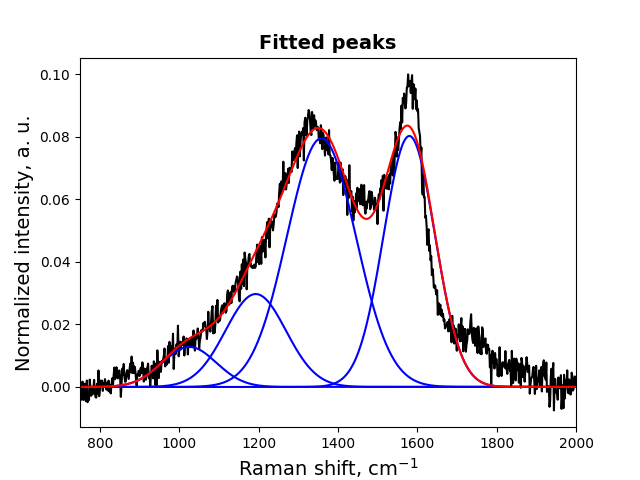
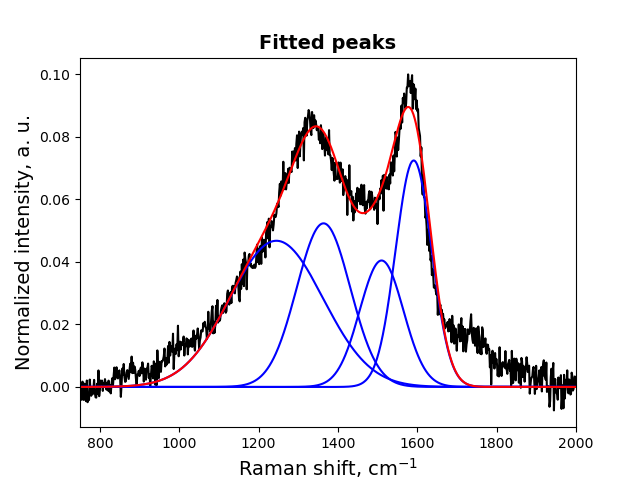
Dois picos fixados.

diff --git a/source/code_raman_all_files.py b/source/code_raman_all_files.py
@@ -91,18 +91,18 @@ for ind_arq in range(len(arqs)):
 
         params = lmfit.Parameters()
         #               (Name,  Value,  Vary,   Min,  Max,  Expr)
-        params.add_many(('a1',   1,   True,  0,      None,  None),
-                        ('f1',   1350,   True, 1340,    1360,  None),
-                        ('l1',   80,   True,  0,      None,  None),
-                        ('a2',   1,   True,  0,      None,  None),
-                        ('f2',   1600,  True, 1580,   1620,  None),
-                        ('l2',   80,   True,  0,   None,  None),  
-                        ('a3',   1,    True,    0,      None,  None),
-                        ('f3',   1000,  True, 700,   1500,  None),
-                        ('l3',   80,   True,  0,   None,  None),
-                        ('a4',   8.5,    True,    0,      None,  None),
-                        ('f4',   1100,  True, 1000,   2000,  None),
-                        ('l4',   80,   True,  0,   None,  None))
+        params.add_many(('a1',   2.4,   True,  0,      None,  None),
+                ('f1',   1245,   True, 1100,    1300,  None),
+                ('l1',   26,   True,  0,      None,  None),
+                ('a2',   3.5,   True,  0,      None,  None),
+                ('f2',   1350,  True, 1300,   1400,  None),
+                ('l2',   39,   True,  0,   None,  None),  
+                ('a3',   8.5,    True,    0,      None,  None),
+                ('f3',   1510,  True, 1400,   1600,  None),
+                ('l3',   31,   True,  0,   None,  None),
+                ('a4',   8.5,    True,    0,      None,  None),
+                ('f4',   1605,  True, 1500,   1700,  None),
+                ('l4',   31,   True,  0,   None,  None))
 
         n = len(params)//3
         lf = ['f'+str(i) for i in range(1,n+1)]
@@ -117,7 +117,7 @@ for ind_arq in range(len(arqs)):
         # we release the positions but contrain the FWMH and amplitude of all peaks 
         n = len(params)//3
         lf = ['f'+str(i) for i in range(1,n+1)]
-        for i in lf:
+        for i in lf[1::2]:
             params[i].vary = True
 
         #result2 = lmfit.minimize(residual_l, params, method = algo, args=(x_fit, y_fit[:,0])) # fit data with leastsq model from scipy
